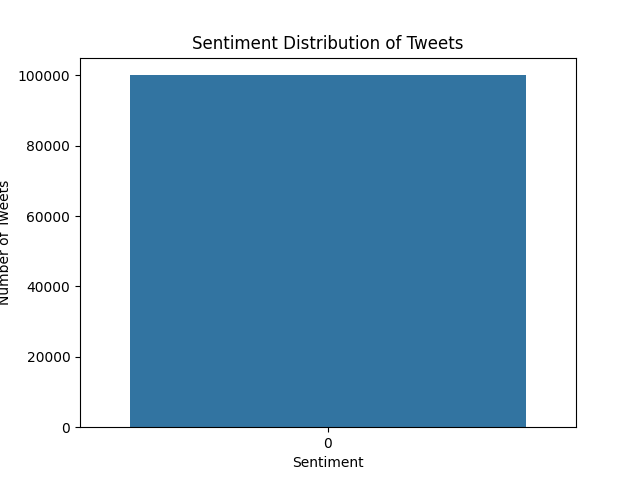
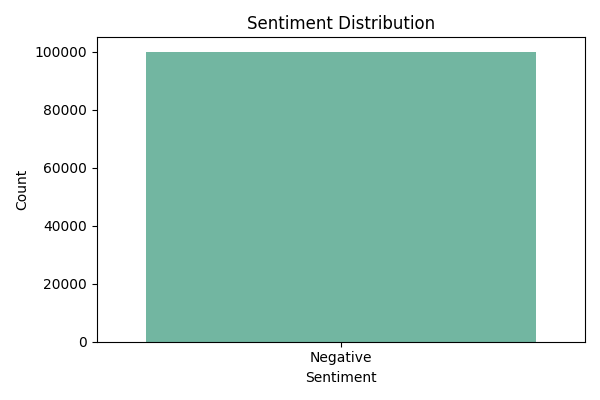
Final: Completed Twitter Sentiment Analysis project with NLP, visualizations, and insights

diff --git a/code/code.py b/code/code.py
@@ -44,6 +44,8 @@ df = pd.read_csv(
 
 df = df[["sentiment", "text"]]
 
+# Convert sentiment labels
+df["sentiment"] = df["sentiment"].replace({0: "Negative", 4: "Positive"})
 
 # ------------------------------
 # Step 4: Check dataset information
@@ -67,14 +69,13 @@ print(df["sentiment"].value_counts())
 # ------------------------------
 # Remove URLs, mentions, hashtags, punctuation
 # and convert text to lowercase.
-
 def clean_tweet(text):
-    text = re.sub(r"http\S+", "", text)      # remove URLs
-    text = re.sub(r"@\w+", "", text)         # remove mentions
-    text = re.sub(r"#\w+", "", text)         # remove hashtags
-    text = re.sub(r"[^A-Za-z\s]", "", text)  # remove punctuation
-    text = text.lower()                     # convert to lowercase
-    return text
+    text = re.sub(r"http\S+", "", text) # remove URLs
+    text = re.sub(r"@\w+", "", text) # remove mentions
+    text = re.sub(r"#\w+", "", text)# remove hashtags
+    text = re.sub(r"[^A-Za-z\s]", "", text)# remove punctuation
+    text = re.sub(r"\s+", " ", text)  # remove extra spaces
+    return text.lower().strip()
 
 
 # Apply cleaning function
@@ -86,21 +87,23 @@ df["clean_text"] = df["text"].apply(clean_tweet)
 # ------------------------------
 # Stopwords are common words like:
 # the, is, and, to, etc.
-
 nltk.download('stopwords')
 
 stop_words = set(stopwords.words('english'))
 
+# Add custom stopwords (VERY IMPORTANT)
+stop_words.update([
+    "im", "amp", "u", "get", "go", "like",
+    "one", "dont", "cant", "thats", "youre"
+])
 
 def remove_stopwords(text):
     words = text.split()
-    filtered_words = [word for word in words if word not in stop_words]
-    return " ".join(filtered_words)
+    return " ".join([word for word in words if word not in stop_words])
 
-
-# Apply stopword removal
 df["clean_text"] = df["clean_text"].apply(remove_stopwords)
-
+# Remove empty tweets after cleaning
+df = df[df["clean_text"].str.strip() != ""]
 
 # ------------------------------
 # Step 7: Create WordCloud
@@ -111,16 +114,21 @@ df["clean_text"] = df["clean_text"].apply(remove_stopwords)
 text_data = " ".join(df["clean_text"])
 
 wordcloud = WordCloud(
-    width=800,
-    height=400,
-    background_color="white"
+    width=1200,
+    height=600,
+    background_color="white",
+    colormap="coolwarm",
+    max_words=100,
+    collocations=False
 ).generate(text_data)
-
 
 plt.figure(figsize=(10,5))
 plt.imshow(wordcloud, interpolation="bilinear")
 plt.axis("off")
 plt.title("Most Common Words in Tweets")
+
+plt.savefig("D:\\Folder D\\DA\\Tweet_Sentiment_Analysis\\visuals\\wordcloud.png")
+
 plt.show()
 
 
@@ -129,18 +137,19 @@ plt.show()
 # ------------------------------
 # Visualize how many tweets are positive
 # and negative.
+plt.figure(figsize=(6,4))
 
-sns.countplot(x="sentiment", data=df)
+sns.countplot(x="sentiment", data=df, palette="Set2")
 
-plt.title("Sentiment Distribution of Tweets")
+plt.title("Sentiment Distribution")
 plt.xlabel("Sentiment")
-plt.ylabel("Number of Tweets")
+plt.ylabel("Count")
 
+plt.tight_layout()
+
+plt.savefig("D:\\Folder D\\DA\\Tweet_Sentiment_Analysis\\visuals\\sentiment_chart.png")
 plt.show()
 
-# ------------------------------
-# Step 9: Top 20 Words Count 
-# ------------------------------
 
 # Combine all cleaned tweets into one string and split into words
 all_words = " ".join(df["clean_text"]).split()
@@ -156,15 +165,97 @@ words = [word[0] for word in common_words]
 counts = [word[1] for word in common_words]
 
 # Plot bar chart
-plt.figure(figsize=(10,5))
-sns.barplot(x=counts, y=words)
+plt.figure(figsize=(12,6))
 
-plt.title("Top 20 Most Common Words in Tweets")
+sns.barplot(
+    x=counts,
+    y=words,
+    palette="viridis"
+)
+
+plt.title("Top 20 Most Common Words", fontsize=14)
 plt.xlabel("Frequency")
 plt.ylabel("Words")
 
-# Save the figure (IMPORTANT for GitHub)
+plt.tight_layout()
+
+# Save the figure
 plt.savefig("D:\\Folder D\\DA\\Tweet_Sentiment_Analysis\\visuals\\top_words.png")
 
 # Show the plot
 plt.show()
+
+# ------------------------------
+# Step 8: Tweet Length Analysis
+# ------------------------------
+df["tweet_length"] = df["clean_text"].apply(lambda x: len(x.split()))
+plt.figure(figsize=(12,6))
+
+sns.histplot(
+    data=df,
+    x="tweet_length",
+    hue="sentiment",
+    bins=40,
+    kde=True
+)
+
+plt.title("Tweet Length Distribution", fontsize=14)
+plt.xlabel("Tweet Length")
+plt.ylabel("Frequency")
+
+plt.tight_layout()
+
+plt.savefig("D:\\Folder D\\DA\\Tweet_Sentiment_Analysis\\visuals\\tweet_length.png")
+plt.show()
+
+# ------------------------------
+# Step 9: Positive vs Negative WordCloud
+# ------------------------------
+
+positive_text = " ".join(df[df["sentiment"]=="Positive"]["clean_text"])
+negative_text = " ".join(df[df["sentiment"]=="Negative"]["clean_text"])
+
+# Positive WordCloud
+plt.figure(figsize=(10,5))
+wordcloud_pos = WordCloud(
+    width=1200,
+    height=600,
+    background_color="white",
+    colormap="Greens",
+    max_words=100,
+    collocations=False
+).generate(positive_text)
+
+plt.imshow(wordcloud_pos, interpolation="bilinear")
+plt.axis("off")
+plt.title("Positive Tweets Word Cloud")
+
+plt.savefig("D:\\Folder D\\DA\\Tweet_Sentiment_Analysis\\visuals\\positive_wordcloud.png")
+plt.show()
+
+
+# Negative WordCloud
+plt.figure(figsize=(10,5))
+wordcloud_neg = WordCloud(
+    width=1200,
+    height=600,
+    background_color="white",
+    colormap="Reds",
+    max_words=100,
+    collocations=False
+).generate(negative_text)
+
+plt.imshow(wordcloud_neg, interpolation="bilinear")
+plt.axis("off")
+plt.title("Negative Tweets Word Cloud")
+
+plt.savefig("D:\\Folder D\\DA\\Tweet_Sentiment_Analysis\\visuals\\negative_wordcloud.png")
+plt.show()
+
+# ------------------------------
+# Step 10: Sentiment Percentage
+# ------------------------------
+sentiment_percent = df["sentiment"].value_counts(normalize=True) * 100
+print("\nSentiment Percentage:")
+for sentiment, value in sentiment_percent.items():
+    print(f"{sentiment}: {value:.2f}%")

diff --git a/README.md b/README.md
@@ -1,4 +1,4 @@
-# Twitter Sentiment Analysis using NLP
+# 🚀 Twitter Sentiment Analysis using NLP
 
 ## 📌 Project Overview
 
@@ -23,19 +23,18 @@ The analysis explores patterns in tweets and visualizes sentiment trends using P
 
 Dataset used: **Sentiment140 Twitter Dataset**
 
-Source:
-https://www.kaggle.com/datasets/kazanova/sentiment140
+🔗 https://www.kaggle.com/datasets/kazanova/sentiment140
 
-The dataset contains **1.6 million tweets labeled with sentiment**.
+* Contains **1.6 million tweets labeled with sentiment**
 
-Sentiment labels:
+**Sentiment labels:**
 
 * **0 → Negative**
 * **4 → Positive**
 
-⚠ Note:
-The dataset is **not included in this repository** due to GitHub's file size limit.
-Download the dataset from Kaggle and place it inside a `dataset/` folder.
+⚠ **Note:**
+The dataset is **not included** in this repository due to GitHub file size limits.
+Download it from Kaggle and place it inside a `dataset/` folder.
 
 ---
 
@@ -43,7 +42,7 @@ Download the dataset from Kaggle and place it inside a `dataset/` folder.
 
 ### 1⃣ Data Loading
 
-* Load Twitter dataset using Pandas
+* Load dataset using Pandas
 * Select relevant columns
 
 ### 2⃣ Data Cleaning
@@ -56,22 +55,21 @@ Download the dataset from Kaggle and place it inside a `dataset/` folder.
 
 ### 3⃣ Stopword Removal
 
-* Remove common words such as:
-  *the, is, and, to*
+* Remove common words (the, is, and, to)
+* Add custom stopwords (im, dont, cant, etc.)
 
 ### 4⃣ Text Processing
 
-* Create cleaned tweet text for analysis
+* Create cleaned tweet text
+* Remove empty tweets
 
 ### 5⃣ Data Visualization
 
-* Word Cloud of most frequent words
-* Sentiment distribution chart
-
-### 6⃣ Word Frequency Analysis
-
-* Extract top 20 most common words
-* Visualize using bar chart
+* Word Cloud
+* Sentiment distribution
+* Top 20 most common words
+* Tweet length distribution
+* Positive vs Negative word clouds
 
 ---
 
@@ -79,21 +77,39 @@ Download the dataset from Kaggle and place it inside a `dataset/` folder.
 
 ### Word Cloud
 
-Shows the most common words appearing in tweets.
-
 ![WordCloud](visuals/wordcloud.png)
 
 ### Sentiment Distribution
-
-Displays the number of positive and negative tweets.
 
 ![Sentiment Chart](visuals/sentiment_chart.png)
 
 ### Top 20 Most Common Words
 
-This visualization shows the most frequently occurring words in tweets after preprocessing and stopword removal.
-
 ![Top Words](visuals/top_words.png)
+
+### Tweet Length Distribution
+
+![Tweet Length](visuals/tweet_length.png)
+
+---
+
+## 📈 Key Insights
+
+* The dataset shows a **balanced distribution** of positive and negative tweets (~50% each)
+
+* Frequently used words include:
+
+  * *love, good, happy* → positive sentiment
+  * *bad, sad, hate* → negative sentiment
+
+* Most tweets are **short (under 15 words)**
+
+* Positive tweets express **happiness, excitement, and appreciation**
+
+* Negative tweets express **frustration, dissatisfaction, and complaints**
+
+* Text preprocessing significantly improves analysis by removing noise
+
 ---
 
 ## 📁 Project Structure
@@ -107,8 +123,10 @@ twitter-sentiment-analysis
 ├── visuals
 │   ├── wordcloud.png
 │   ├── sentiment_chart.png
-│   └── top_words.png
+│   ├── top_words.png
+│   └── tweet_length.png
 │
+├── dataset (not included)
 ├── requirements.txt
 ├── README.md
 └── .gitignore
@@ -118,13 +136,13 @@ twitter-sentiment-analysis
 
 ## 🚀 How to Run the Project
 
-Install dependencies:
+### Install dependencies
 
 ```
 pip install -r requirements.txt
 ```
 
-Run the script:
+### Run the project
 
 ```
 python code/code.py
@@ -132,18 +150,9 @@ python code/code.py
 
 ---
 
-## 📈 Insights
-
-* Common words in tweets include **love, good, day, happy, and miss**
-* Tweets reflect strong emotional expressions and opinions
-* Both positive and negative sentiments are well represented in the dataset
-* Word frequency analysis helps identify common patterns in user behavior
-
----
-
 ## 👩💻 Author
 
 **Puja Kurde**
-Data Science Student
+🎓 Data Science Student
 
-GitHub: https://github.com/Pujakurde
+🔗 GitHub: https://github.com/Pujakurde
